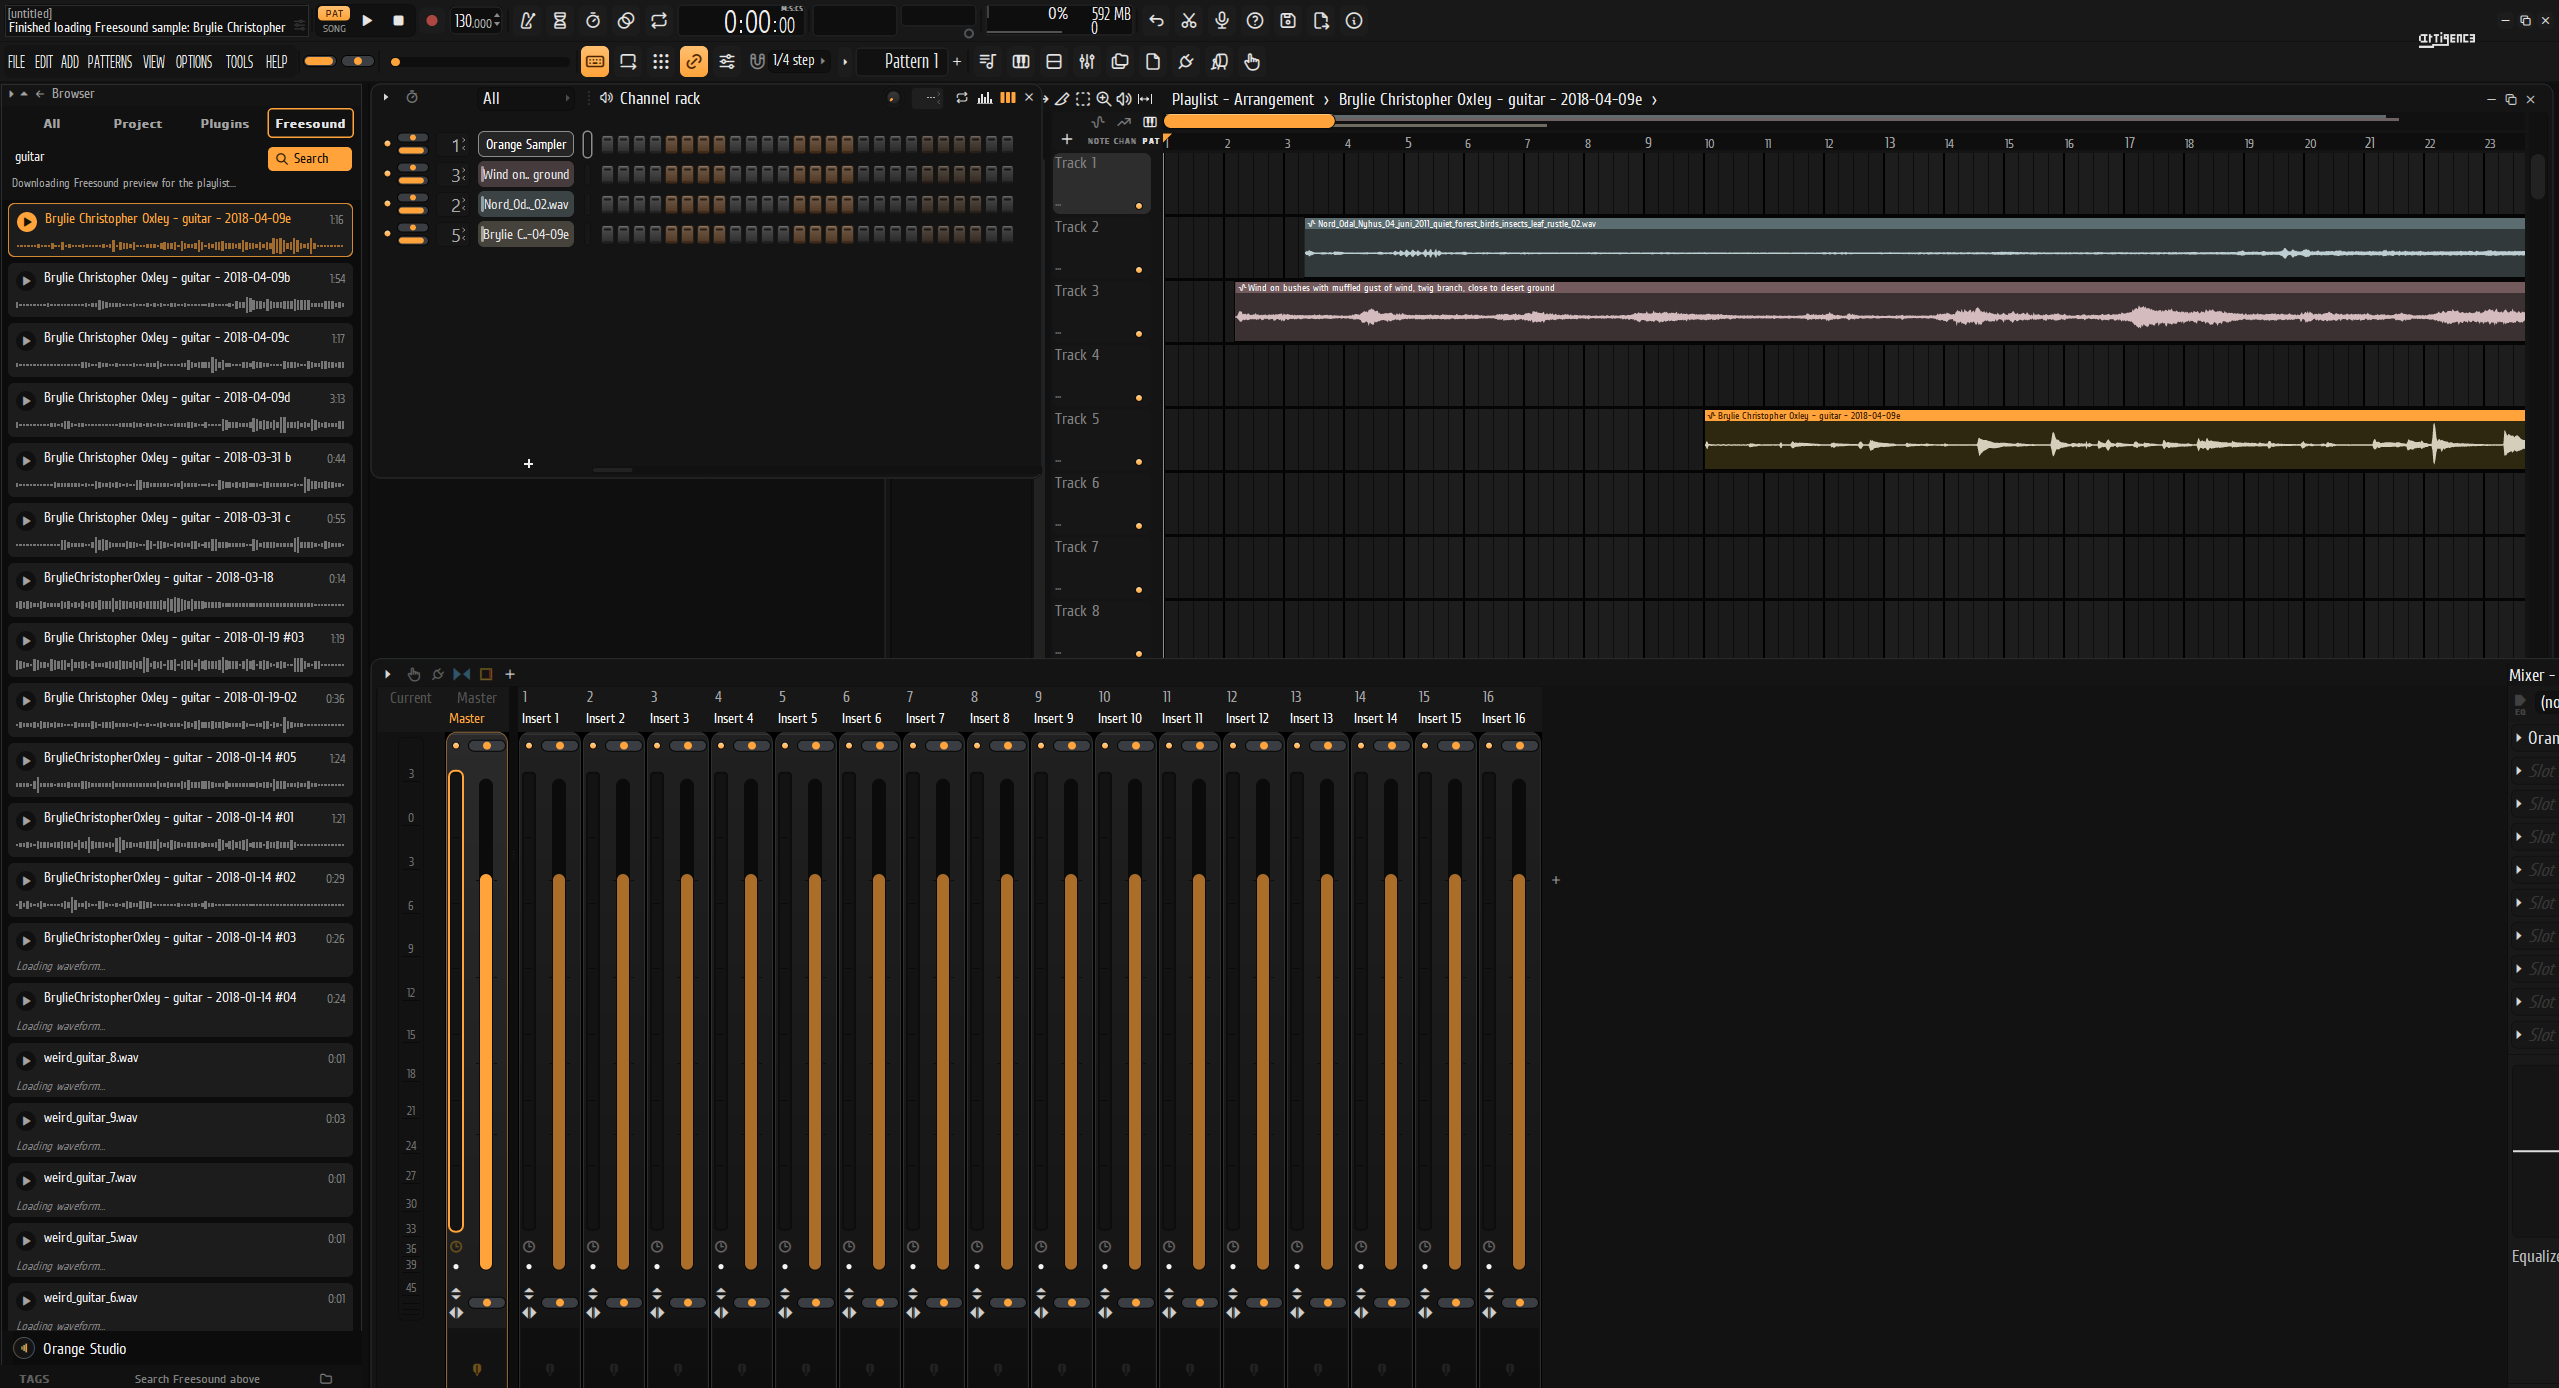
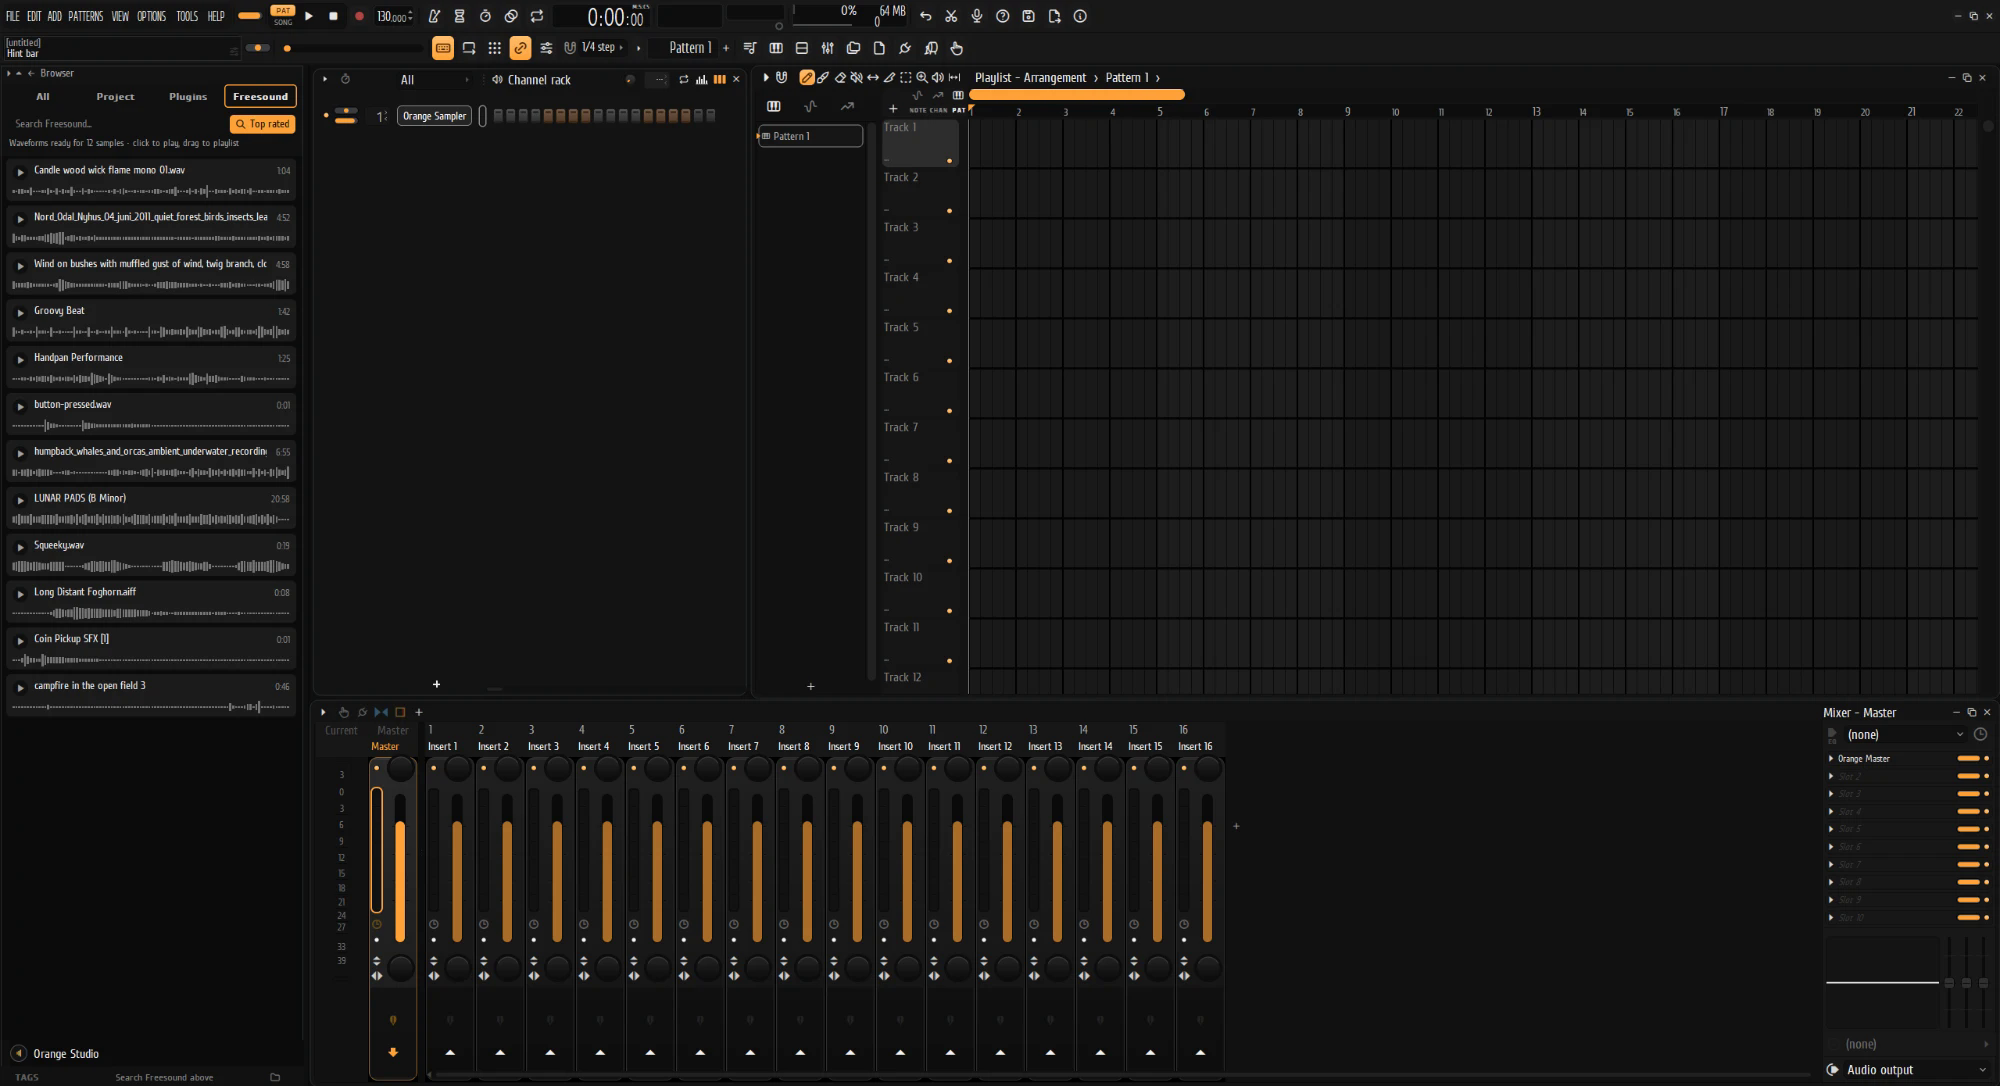
Release v1.3.6: FL window layout, FL toolbar order, mixer pan and separation knobs
- First-start window layout: the Channel rack at the top left, the Playlist right of it, both down to the Mixer, which runs along the
  whole bottom (about 38% of the height); proportions of the workspace, so it fits every monitor.
- FL's toolbar order on Windows and Linux (menu first, hint and window buttons on the second row, window buttons at the top
  right); a saved docked toolbar is replaced by it, a toolbar the user chose stays.
- The mixer's pan and stereo-separation controls are FL's round knobs in the FL layout (the docked layout keeps its bars), dragged
  up and down as in FL; the fader keeps the Orange bar.
- Tests follow: the first-start layout, the kept browser width, the pan bar (docked) and the pan knob (FL layout).

diff --git a/crates/os-app/src/layout.rs b/crates/os-app/src/layout.rs
@@ -83,23 +83,29 @@ pub fn restore(s: &mut State) -> bool {
     kept
 }
 
-/// Share of the workspace's height the mixer takes along the bottom of the first-start layout (`fl_default`), tall enough for
-/// long faders; never below its default floating height (`FL_MIXER_MIN_H`) nor above 60 % of the workspace.
-const FL_MIXER_SHARE: f32 = 0.6;
+/// Share of the workspace's height the mixer takes under the Channel rack in the first-start layout (`fl_default`):
+/// FL's default, about 38 %; never below its default floating height (`FL_MIXER_MIN_H`) nor above 60 % of the workspace.
+const FL_MIXER_SHARE: f32 = 0.38;
 const FL_MIXER_MIN_H: f32 = 435.0;
+/// Share of the workspace's width the left column (the Channel rack over the Mixer) takes: FL's, about 23 %, though never
+/// narrower than the Mixer's smallest width and never over half the workspace.
+const FL_COLUMN_SHARE: f32 = 0.23;
 
-/// The first-start layout on the workspace there is (`State::fl_layout`): the Channel rack at its top left, the Playlist
-/// right of it down to where the Mixer starts, and the Mixer along the bottom the whole width. Proportions, not pixels, so
-/// it fits every monitor.
+/// The first-start layout on the workspace there is (`State::fl_layout`): the Channel rack at the top left, the Playlist right of
+/// it, both down to where the Mixer starts, and the Mixer along the whole bottom. Proportions, not pixels, so it fits every
+/// monitor.
 pub fn fl_default(s: &mut State) {
     let w = s.work_rect();
-    s.rack_pos = (w.x + 4.0, w.y + 4.0);
-    let mix_h = (w.h * FL_MIXER_SHARE).max(FL_MIXER_MIN_H).min(w.h * 0.6).max(Win::Mixer.min_size().1).round();
+    let gap = 4.0;
+    let (mix_min_w, mix_min_h) = Win::Mixer.min_size();
+    let mix_h = (w.h * FL_MIXER_SHARE).max(FL_MIXER_MIN_H).min(w.h * 0.6).max(mix_min_h).round();
+    let col_w = (w.w * FL_COLUMN_SHARE).max(mix_min_w).max(views::rack::min_w(s) + gap).min(w.w * 0.5).round();
+    s.rack_pos = (w.x + gap, w.y + gap);
+    // The rack fills the column down to the Mixer (a short screen keeps it its minimum height: they overlap there).
+    s.rack_size = ((col_w - gap).max(views::rack::min_w(s)), (w.h - mix_h - 2.0 * gap).max(views::rack::MIN_H));
     s.wins[1] = WinState { rect: Rect::new(w.x, w.bottom() - mix_h, w.w, mix_h), maxed: false, mini: false };
-    let px = s.rack_pos.0 + s.rack_size.0 + 8.0;
-    // Down to the Mixer's top (a short screen keeps the Playlist its minimum height: they overlap there).
-    let pl_h = (w.h - mix_h).max(Win::Playlist.min_size().1);
-    s.wins[0] = WinState { rect: Rect::new(px, w.y, w.right() - px, pl_h), maxed: false, mini: false };
+    let px = w.x + col_w + gap;
+    s.wins[0] = WinState { rect: Rect::new(px, w.y, w.right() - px, (w.h - mix_h).max(Win::Playlist.min_size().1)), maxed: false, mini: false };
 }
 
 /// Keeps where the windows inside the main window are, for the next start. The monitor, tapper and touch controller only
@@ -152,8 +158,8 @@ mod tests {
     use super::*;
     use crate::app::App;
 
-    /// A first start lays the windows out: the Channel rack at the workspace's top left, the Playlist right of it down to
-    /// where the Mixer starts, the Mixer along the bottom the whole width; none maximized.
+    /// A first start lays the windows out: the Channel rack at the workspace's top left, the Playlist right of it, both down to
+    /// where the Mixer starts, the Mixer along the whole bottom; none maximized.
     #[test]
     fn a_first_start_lays_the_windows_out_as_fl() {
         let mut app = App::new(None);
@@ -162,14 +168,14 @@ mod tests {
         fl_default(s);
         let w = s.work_rect();
         let (pl, mx) = (s.win_rect(Win::Playlist), s.win_rect(Win::Mixer));
-        assert_eq!(s.rack_pos, (w.x + 4.0, w.y + 4.0));
-        assert_eq!((mx.x, mx.w, mx.bottom()), (w.x, w.w, w.bottom()), "the mixer along the bottom");
-        assert_eq!((pl.y, pl.right(), pl.bottom()), (w.y, w.right(), mx.y), "the playlist from the top, to the right edge and the mixer");
-        let z = |win| s.z.iter().position(|&v| v == win);
-        assert!(z(Win::Playlist) < z(Win::Mixer), "behind the mixer");
-        assert!(pl.x >= s.rack_pos.0 + s.rack_size.0, "right of the channel rack");
+        let rack = (s.rack_pos, s.rack_size);
+        assert_eq!(rack.0, (w.x + 4.0, w.y + 4.0), "the rack at the top left");
+        assert_eq!((mx.x, mx.w, mx.bottom()), (w.x, w.w, w.bottom()), "the mixer along the bottom, the whole width");
+        assert!(rack.0 .1 + rack.1 .1 <= mx.y, "the rack ends where the mixer starts");
+        assert_eq!((pl.y, pl.right(), pl.bottom()), (w.y, w.right(), mx.y), "the playlist from the top to the mixer, to the right edge");
+        assert!(pl.x >= rack.0 .0 + rack.1 .0, "right of the rack");
         assert!(s.wins.iter().take(2).all(|ws| !ws.maxed));
-        assert!((mx.h - (w.h * FL_MIXER_SHARE).round()).abs() < 1.0, "the mixer tall: {} of {}", mx.h, w.h);
+        assert!((mx.h - (w.h * FL_MIXER_SHARE).round()).abs() < 1.0, "the mixer under the rack: {} of {}", mx.h, w.h);
     }
 
     /// The main window grown after the first paint (maximized at the start): FL's layout follows the new workspace, until
@@ -182,7 +188,10 @@ mod tests {
         app.paint(&mut small, None);
         app.paint(&mut big, None);
         let w = app.state.work_rect();
+        let pl = app.state.win_rect(Win::Playlist);
+        assert_eq!(pl.right(), w.right(), "the playlist to the new right edge");
         assert_eq!(app.state.win_rect(Win::Mixer).w, w.w, "the mixer the new width");
+        assert_eq!(app.state.win_rect(Win::Mixer).bottom(), w.bottom(), "the mixer at the new bottom");
         app.act(crate::app::Action::WinResize(Win::Mixer, crate::app::EDGE_T));
         app.paint(&mut small, None);
         app.paint(&mut big, None);

diff --git a/crates/os-app/src/app.rs b/crates/os-app/src/app.rs
@@ -9509,7 +9509,10 @@ impl App {
                 s.set_knob(id, if s.knob(id) >= 0.5 { 0.0 } else { 1.0 });
                 self.hint = Cow::Owned(s.knob_text(id));
             }
-            Action::Knob(id @ (crate::knobs::KnobId::MixPan(_) | crate::knobs::KnobId::MixSep(_) | crate::knobs::KnobId::ChanPan(_) | crate::knobs::KnobId::ChanVol(_) | crate::knobs::KnobId::TrackVol(_) | crate::knobs::KnobId::TrackPan(_) | crate::knobs::KnobId::SlotMix(..) | crate::knobs::KnobId::MasterVol | crate::knobs::KnobId::MasterPitch)) if os_ui::kit::lemon::on(&self.theme.colors) => {
+            Action::Knob(id @ (crate::knobs::KnobId::MixPan(_) | crate::knobs::KnobId::MixSep(_) | crate::knobs::KnobId::ChanPan(_) | crate::knobs::KnobId::ChanVol(_) | crate::knobs::KnobId::TrackVol(_) | crate::knobs::KnobId::TrackPan(_) | crate::knobs::KnobId::SlotMix(..) | crate::knobs::KnobId::MasterVol | crate::knobs::KnobId::MasterPitch))
+                // A bar is dragged along; the mixer's round pan and separation knobs (FL's layout) are dragged up and down, as in FL.
+                if os_ui::kit::lemon::on(&self.theme.colors) && (s.docked_ui || !matches!(id, crate::knobs::KnobId::MixPan(_) | crate::knobs::KnobId::MixSep(_))) =>
+            {
                 let bar = self.hits.iter().rev().find(|h| h.action == Action::Knob(id)).map(|h| h.rect);
                 if let Some(r) = bar {
                     crate::history::knob(&mut self.state, id, false);
@@ -22467,11 +22470,13 @@ mod tests {
         c.pixmap.save_png(dir.join("mx_slot_menu.png")).unwrap();
     }
 
-    /// Orange skin: the pan bar follows the mouse across it (left end hard left, right end hard right, the middle centre).
+    /// Orange skin, docked layout: the pan bar follows the mouse across it (left end hard left, right end hard right, the middle
+    /// centre).
     #[test]
     fn mixer_pan_bar_follows_the_mouse() {
         let Ok(mut c) = Canvas::new(1920, 1080, 1.0) else { return };
         let mut app = App::new(None);
+        app.state.docked_ui = true;
         app.set_design(Design::Lemon, false);
         app.state.project = test_project();
         app.state.z = vec![Win::Mixer];
@@ -22486,6 +22491,30 @@ mod tests {
         assert_eq!(app.state.knob(id), 1.0, "hard right");
         app.mouse_move(r.cx() + 0.5, r.cy() + 30.0);
         assert_eq!(app.state.knob(id), 0.5, "back to the centre");
+        app.mouse_up();
+    }
+
+    /// FL's layout: the mixer's pan knob is round and is dragged up and down, as in FL, not along like the bar; a small
+    /// movement moves the value a little (no jump to where the mouse is on the knob).
+    #[test]
+    fn the_mixer_pan_knob_drags_up_and_down() {
+        let Ok(mut c) = Canvas::new(1920, 1080, 1.0) else { return };
+        let mut app = App::new(None);
+        app.set_design(Design::Lemon, false);
+        app.state.project = test_project();
+        app.state.z = vec![Win::Mixer];
+        frame(&mut app, &mut c, None);
+        let id = crate::knobs::KnobId::MixPan(2);
+        let r = hit_rect(&app, &Action::Knob(id));
+        assert!((r.w - r.h).abs() < 1.0, "a round knob's square area: {r:?}");
+        let before = app.state.knob(id);
+        app.mouse_move(r.x + 1.0, r.cy());
+        app.mouse_down();
+        assert_eq!(app.state.knob(id), before, "pressing on the knob's edge does not move it");
+        app.mouse_move(r.x + 1.0, r.cy() - 20.0);
+        assert!(app.state.knob(id) > before, "dragging up turns it up: {} -> {}", before, app.state.knob(id));
+        app.mouse_move(r.x + 1.0, r.cy() + 40.0);
+        assert!(app.state.knob(id) < before, "dragging down turns it down");
         app.mouse_up();
     }
 

diff --git a/crates/os-app/src/views/mixer.rs b/crates/os-app/src/views/mixer.rs
@@ -1040,12 +1040,13 @@ fn led(ui: &mut Ui, track: Option<&os_model::MixerTrack>, n: u16, hit: Rect, x: 
 
 fn pan_knob(ui: &mut Ui, s: &State, n: u16, x: f32, y: f32, r: f32, halo: f32) {
     let pan = KnobId::MixPan(n);
-    let hit = if super::lemon(ui) { Rect::new(x - halo, y - 8.0, 2.0 * halo, 16.0) } else { Rect::new(x - (halo - 1.0), y - (halo - 1.0), 2.0 * (halo - 1.0), 2.0 * (halo - 1.0)) };
+    let bars = bar_controls(ui, s);
+    let hit = if bars { Rect::new(x - halo, y - 8.0, 2.0 * halo, 16.0) } else { Rect::new(x - (halo - 1.0), y - (halo - 1.0), 2.0 * (halo - 1.0), 2.0 * (halo - 1.0)) };
     ui.hit(hit, Action::Knob(pan), s.knob_text(pan));
-    if super::lemon(ui) {
+    if bars {
         centre_bar(ui, x, y, halo, if halo >= 12.0 { 10.0 } else { 8.0 }, s.knob(pan), Bar::Centre);
     } else {
-        mixer_knob(ui, x, y, r, halo, s.knob(pan), Some(true));
+        fl_knob(ui, x, y, r, halo, s.knob(pan), Some(true));
     }
 }
 
@@ -1112,12 +1113,13 @@ fn swap(ui: &mut Ui, track: Option<&os_model::MixerTrack>, n: u16, sx: f32, y: f
 
 fn sep_knob(ui: &mut Ui, s: &State, n: u16, x: f32, y: f32, r: f32, halo: f32) {
     let sep = KnobId::MixSep(n);
-    let hit = if super::lemon(ui) { Rect::new(x - halo, y - 8.0, 2.0 * halo, 16.0) } else { Rect::new(x - halo + 0.5, y - halo + 0.5, 2.0 * halo - 1.0, 2.0 * halo - 1.0) };
+    let bars = bar_controls(ui, s);
+    let hit = if bars { Rect::new(x - halo, y - 8.0, 2.0 * halo, 16.0) } else { Rect::new(x - halo + 0.5, y - halo + 0.5, 2.0 * halo - 1.0, 2.0 * halo - 1.0) };
     ui.hit(hit, Action::Knob(sep), s.knob_text(sep));
-    if super::lemon(ui) {
+    if bars {
         centre_bar(ui, x, y, halo, if halo >= 12.0 { 10.0 } else { 8.0 }, s.knob(sep), Bar::Mono);
     } else {
-        mixer_knob(ui, x, y, r, halo, s.knob(sep), Some(true));
+        fl_knob(ui, x, y, r, halo, s.knob(sep), Some(true));
     }
 }
 
@@ -1249,6 +1251,21 @@ fn send_knob(ui: &mut Ui, s: &State, n: u16, kx: f32, ky: f32, level: f64, k: f3
         let sweep = (level as f32).min(1.0) * 1.5 * PI;
         ui.c.arc(kx, ky, 12.5 * k, 0.75 * PI, sweep, 2.0, ui.t.accent);
     }
+}
+
+/// Whether the pan and separation controls are the Orange skin's bars: in the docked layout only. FL's layout has FL's round
+/// knobs, in the theme's colours.
+fn bar_controls(ui: &Ui, s: &State) -> bool {
+    super::lemon(ui) && s.docked_ui
+}
+
+/// FL's round knob whatever the skin (the Orange skin draws its own knobs flat): the Citrus shapes in the theme's colours.
+fn fl_knob(ui: &mut Ui, cx: f32, cy: f32, r: f32, halo: f32, value: f32, arc: Option<bool>) {
+    let hov = ui.hovering(Rect::new(cx - halo, cy - halo, 2.0 * halo, 2.0 * halo));
+    let look = os_ui::kit::KnobLook::Mixer { halo, arc: arc.is_some() };
+    let mut fl = ui.t.clone();
+    fl.style = os_theme::Style::CITRUS;
+    os_ui::kit::knob(ui.c, &fl, cx, cy, r, value, arc.unwrap_or(false), look, os_ui::kit::State::hover(hov));
 }
 
 /// The dark round mixer knob: a shaded ball inside a darker halo.

diff --git a/crates/os-app/src/toolbar.rs b/crates/os-app/src/toolbar.rs
@@ -331,7 +331,7 @@ impl Layout {
     pub fn load() -> Layout {
         // FL's own toolbar with FL's layout (its window buttons at the top right on Windows and Linux, at the top left on
         // macOS); the docked one only with the docked layout. Tests measure the panels at their homes (Caption left).
-        let fl = if cfg!(test) || cfg!(target_os = "macos") { PRESETS[CAPTION_LEFT].layout() } else { Layout::classic() };
+        let fl = if cfg!(test) || cfg!(target_os = "macos") { PRESETS[CAPTION_LEFT].layout() } else { PRESETS[MENU_FIRST].layout() };
         let first = if cfg!(test) || !crate::app::docked_requested() { fl } else { Layout::docked() };
         match crate::settings_file::get(KEY).and_then(|v| Layout::parse(&v)) {
             // The docked layout's own toolbar, kept from before FL's layout came back: it has no window buttons, no pattern
@@ -497,6 +497,9 @@ pub const PRESETS: [Preset; 9] = [
 
 /// `PRESETS`' "Caption left": every panel at its home.
 pub const CAPTION_LEFT: usize = 8;
+/// `PRESETS`' "Menu first": the menu at the top left, the hint panel on the second row with the window buttons, as FL has them on
+/// Windows and Linux.
+pub const MENU_FIRST: usize = 2;
 
 /// Where the user's presets are: the user folder's `Toolbar presets` (in tests the thread's folder, `app::theme_dir`).
 pub fn user_dir() -> Option<PathBuf> {

diff --git a/crates/os-app/src/browser.rs b/crates/os-app/src/browser.rs
@@ -1400,7 +1400,8 @@ mod tests {
     /// `browser.txt` (spec: ui/browser.md Â§9): the dragged width, never below the default; anything else is the default.
     #[test]
     fn kept_width() {
-        assert_eq!(parse_width("width=359\n"), 359.0);
+        assert_eq!(parse_width("width=450\n"), 450.0);
+        assert_eq!(parse_width("width=359\n"), crate::views::BROWSER_W, "narrower than the least is the least");
         assert_eq!(parse_width("width=120"), crate::views::BROWSER_W);
         assert_eq!(parse_width("width=wide\n"), crate::views::BROWSER_W);
         assert_eq!(parse_width(""), crate::views::BROWSER_W);

diff --git a/README.md b/README.md
@@ -13,7 +13,7 @@
   <a href="LICENSE"><img alt="License: GPL-3.0-or-later" src="https://img.shields.io/badge/license-GPL--3.0--or--later-blue?style=flat-square"></a>
   <img alt="Rust 2024 edition" src="https://img.shields.io/badge/rust-2024_edition-e57324?style=flat-square&logo=rust&logoColor=white">
   <img alt="Platform: Windows | Linux | macOS" src="https://img.shields.io/badge/platform-Windows_%7C_Linux_%7C_macOS-0078d4?style=flat-square">
-  <a href="https://github.com/Artig3nce/Orange-Studio/releases"><img alt="Release: 1.3.5" src="https://img.shields.io/badge/release-1.3.5-ffb02e?style=flat-square"></a>
+  <a href="https://github.com/Artig3nce/Orange-Studio/releases"><img alt="Release: 1.3.6" src="https://img.shields.io/badge/release-1.3.6-ffb02e?style=flat-square"></a>
   <a href="https://discord.gg/yC2uCuGs3M"><img alt="Lemon Studio Discord" src="https://img.shields.io/badge/lemon_studio-discord-5865f2?style=flat-square&logo=discord&logoColor=white"></a>
 </p>
 
